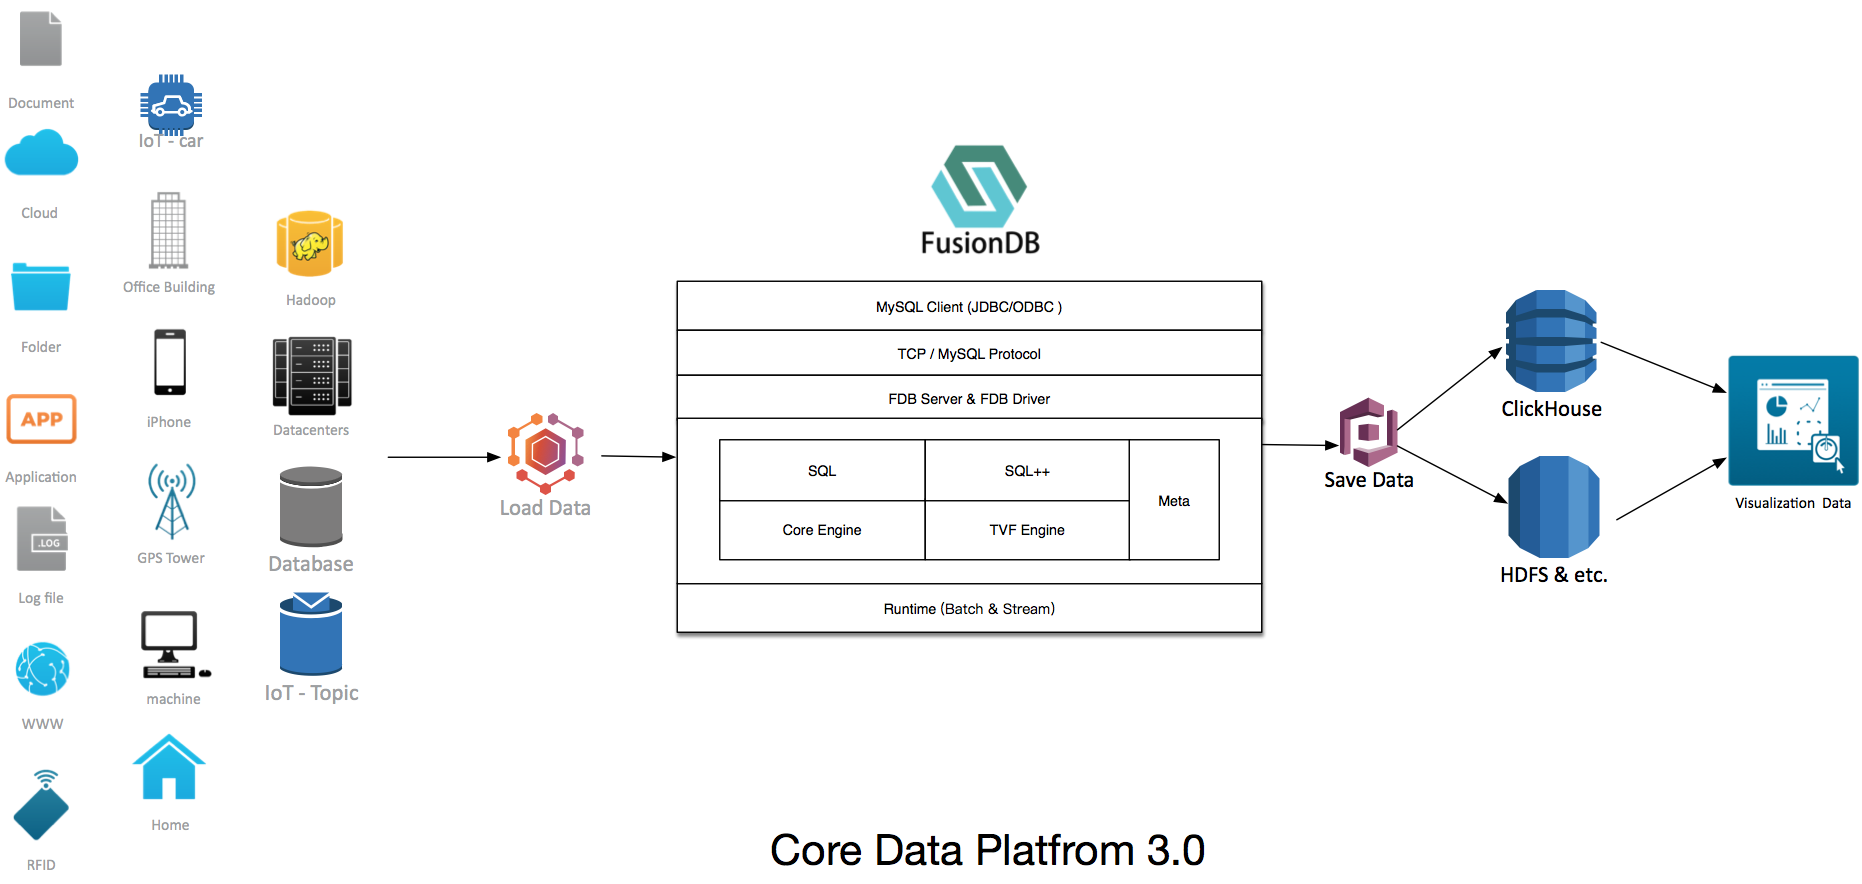
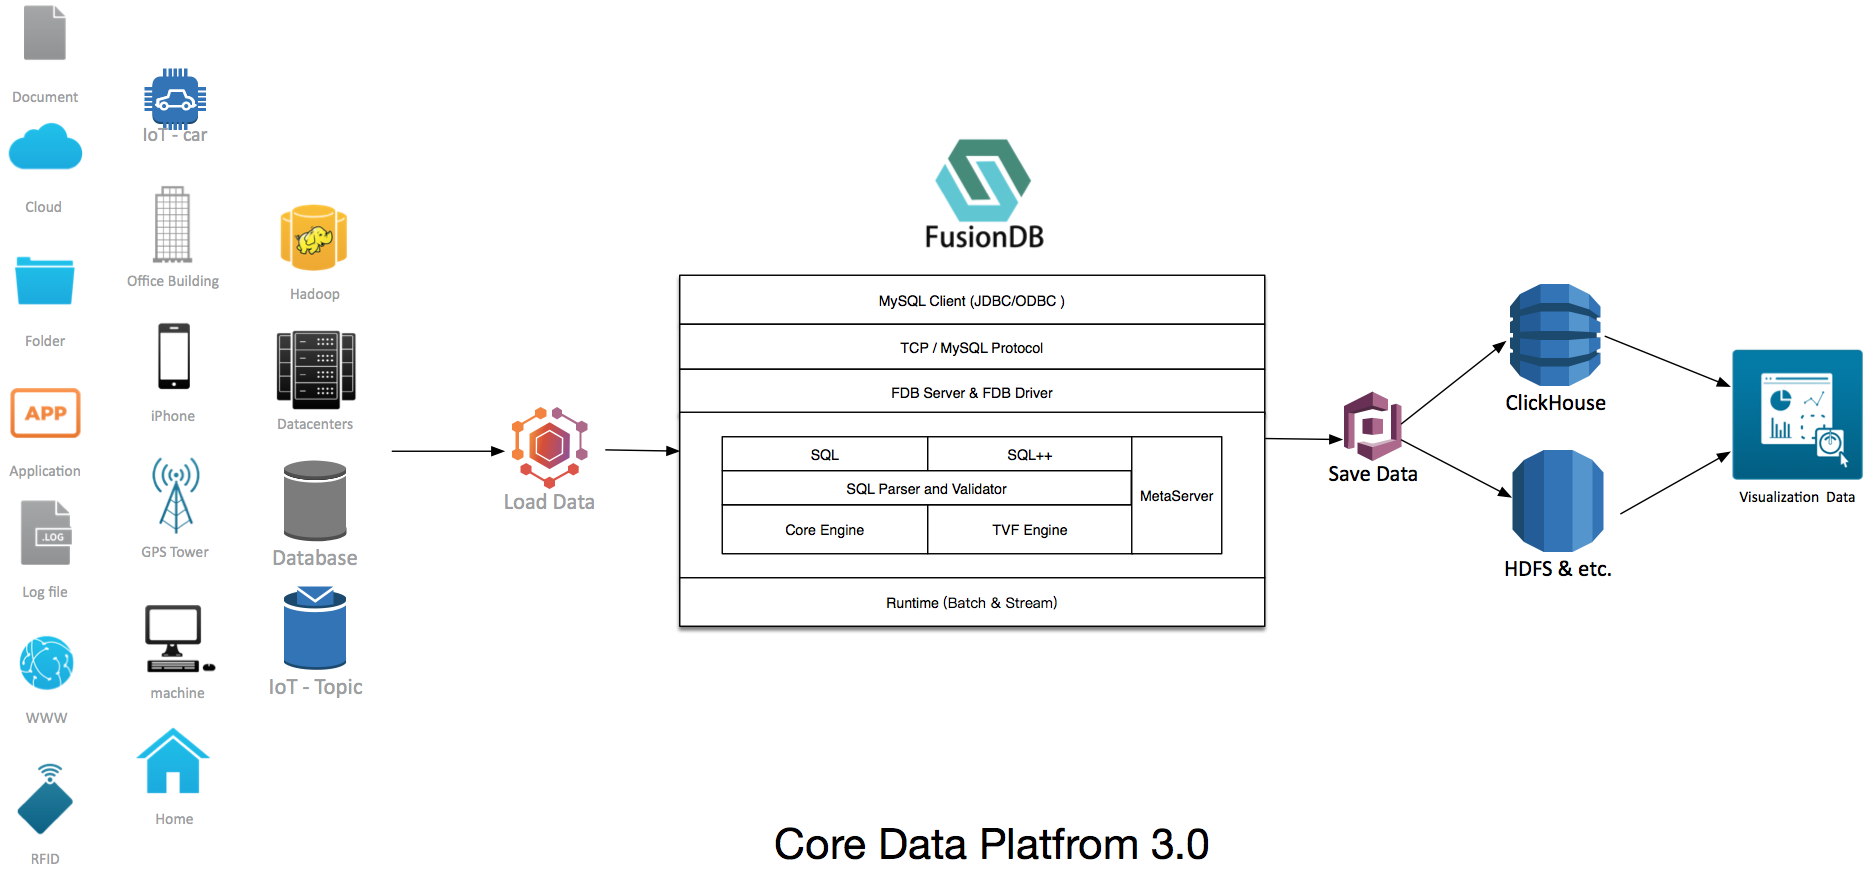
Site updated: 2019-01-23 23:51:06

diff --git a/zh-cn/fdb/index.html b/zh-cn/fdb/index.html
@@ -60,20 +60,42 @@
     <div class="page-main">
   <article class="markdown-body">
     <h1>FusionDB</h1>
-    <h2 id="设计原则"><a class="markdown-anchor" href="#设计原则">#</a> 设计原则</h2>
+    <h2 id="fusiondb-是什么"><a class="markdown-anchor" href="#fusiondb-是什么">#</a> FusionDB 是什么？</h2>
+<p>FusionDB 是一个开源的分布式 FQL 数据库引擎，加速多数据源融合。</p>
+<p><img src="http://www.fusionlab.cn/zh-cn/fdb/img/fusiondb-architecture.png" alt="FusionDB Architecture"></p>
+<h2 id="设计原则"><a class="markdown-anchor" href="#设计原则">#</a> 设计原则</h2>
 <ul>
-<li>利用插件方式，实现系统的分离和扩展</li>
-<li>遵循降低研发成本原则，针对不同业务场景提供解决方案的集成</li>
+<li>简单 &amp; 易用 &amp; FQL for Everyone</li>
+<li>遵循降低研发成本原则，提供极简的使用方法</li>
 <li>深入理解企业数据管理的刚性需求，构建最优化分布式数据库系统</li>
 </ul>
 <h2 id="特性"><a class="markdown-anchor" href="#特性">#</a> 特性</h2>
 <ul>
-<li>业务场景优化：针对一些特定的业务场景提供完善的构架解决方案</li>
-<li>xxxx</li>
+<li>FusionDB Supports Many Runtimes</li>
+<li>All in FQL</li>
+<li>批流统一 &amp; 实时计算</li>
+<li>标准 JDBC/ODBC</li>
 </ul>
+<p><img src="http://www.fusionlab.cn/zh-cn/fdb/img/fusiondb-many-runtime.jpg" alt=""></p>
+<h2 id="运行查询"><a class="markdown-anchor" href="#运行查询">#</a> 运行查询</h2>
+<ul>
+<li>Load Data</li>
+</ul>
+<p><figure class="highlight plain"><table><tr><td class="code"><pre><span class="line"></span><br><span class="line">LOAD &apos;HDFS&apos;.&apos;/usr/test&apos; FORMAT &apos;CSV&apos; OPTIONS(&apos;header&apos;=&apos;true&apos;) AS T WHERE A=1 AND B=2;</span><br><span class="line"></span><br><span class="line">LOAD &apos;ADLS&apos;.&apos;/usr/test&apos; FORMAT &apos;JSON&apos; AS T WHERE A=1 AND B=2;</span><br><span class="line"></span><br><span class="line">LOAD &apos;S3&apos;.&apos;/usr/test&apos; FORMAT &apos;PARQUET&apos; OPTIONS(&apos;fs.s3a.access.key&apos;=&apos;ACCESS-KEY&apos;,&apos;fs.s3a.secret.key&apos;=&apos;SECRET-KEY&apos;,&apos;fs.s3a.endpoint&apos;=&apos;s3.REGION.amazonaws.com&apos;) AS T WHERE A=1 AND B=2;</span><br><span class="line"></span><br><span class="line">LOAD &apos;LOCAL&apos;.&apos;/usr/test&apos; FORMAT &apos;ORC&apos; AS T WHERE A=1 AND B=2;</span><br><span class="line"></span><br><span class="line">LOAD &apos;MYSQL&apos; OPTIONS (&apos;url&apos;=&apos;jdbc:mysql://node1:3306/default&apos;,&apos;dbtable&apos;=&apos;default.t1&apos;,&apos;user&apos;=&apos;admin&apos;, &apos;password&apos;=&apos;123&apos;) AS T1 WHERE A=1 AND B=2;</span><br><span class="line"></span><br><span class="line">LOAD &apos;HBASE&apos; OPTIONS (&apos;hbase.zookeeper.quorum&apos;=&apos;node1:2181,node2:2181,node3:2181&apos;,&apos;hbase.zookeeper.property.clientPort&apos;=&apos;2181&apos;,&apos;htable&apos;=&apos;default.t1&apos;) AS T1 WHERE A=1 AND B=2;</span><br><span class="line"></span><br><span class="line">LOAD &apos;Hive&apos; OPTIONS (&apos;hive.metastore.uris&apos;=&apos;thrift://&lt;host&gt;:&lt;port&gt;&apos;,&apos;hive.metastore.warehouse.dir&apos;=&apos;/usr/hive/warehouse&apos;,&apos;fs.default.name&apos;=&apos;hdfs:///&apos;,&apos;user&apos;=&apos;hive&apos;,&apos;password&apos;=&apos;123&apos;) AS T1 WHERE A=1 AND B=2;</span><br></pre></td></tr></table></figure></p>
+<ul>
+<li>Transformation Data</li>
+</ul>
+<p><figure class="highlight plain"><table><tr><td class="code"><pre><span class="line">Spark SQL/Stream SQL + TVF(SQL++)    </span><br><span class="line"></span><br><span class="line">Create Stream Table t1（</span><br><span class="line">  id int,</span><br><span class="line">  name string</span><br><span class="line">) with (</span><br><span class="line">  &apos;stype&apos; = &apos;kafka&apos;,</span><br><span class="line">  &apos;ktopic&apos; = &apos;user&apos;,</span><br><span class="line">  &apos;auto.offset.reset&apos; = &apos;earliest&apos;,</span><br><span class="line">  &apos;bootstrap.servers&apos; = &apos;localhost:9092&apos;,</span><br><span class="line">  &apos;group.id&apos; = &apos;query-consumer-1&apos;,</span><br><span class="line">  &apos;enable.auto.commit&apos; = &apos;true&apos;,</span><br><span class="line">  &apos;session.timeout.ms&apos; = &apos;30000&apos;,</span><br><span class="line">  ...</span><br><span class="line">)</span><br></pre></td></tr></table></figure></p>
+<ul>
+<li>Save Data</li>
+</ul>
+<p><figure class="highlight plain"><table><tr><td class="code"><pre><span class="line">SAVE T1 TO &apos;LOCAL&apos;.&apos;/usr/a&apos; FORMAT &apos;PARQUET&apos; PARTITION BY COL2;</span><br><span class="line"></span><br><span class="line">SAVE APPEND T1 TO &apos;HDFS&apos;.&apos;/usr/a&apos; FORMAT &apos;ORC&apos; OPTIONS (&apos;hdfs.root&apos;=&apos;hdp02:8020&apos;)  PARTITION BY COL2;</span><br><span class="line"></span><br><span class="line">SAVE OVERWRITE T1 TO &apos;S3&apos;.&apos;/usr/a&apos; FORMAT &apos;CSV&apos; OPTIONS (&apos;aws.bucket.key&apos;=&apos;dkfajsdlfjasdkjf&apos;) PARTITION BY COL2;</span><br><span class="line"></span><br><span class="line">SAVE IGNORE T1 TO &apos;ADLS&apos;.&apos;/usr/a&apos; FORMAT &apos;JSON&apos; OPTIONS (&apos;azure.key&apos;=&apos;dkljafsdkfjlas&apos;) PARTITION BY COL2;</span><br><span class="line"></span><br><span class="line">SAVE T1 TO &apos;MYSQL&apos; OPTIONS (&apos;url&apos;=&apos;jdbc:mysql://node1:3306/default&apos;,&apos;dbtable&apos;=&apos;default.t1&apos;,&apos;user&apos;=&apos;admin&apos;, &apos;password&apos;=&apos;123&apos;);</span><br><span class="line"></span><br><span class="line">SAVE APPEND T1 TO &apos;ORACLE&apos; OPTIONS (&apos;url&apos;=&apos;jdbc:oracle:thin:@node1:1521:orcl&apos;,&apos;dbtable&apos;=&apos;ora1.a1&apos;,&apos;user&apos;=&apos;admin&apos;, &apos;password&apos;=&apos;123&apos;);</span><br><span class="line"></span><br><span class="line">SAVE OVERWRITE T1 TO &apos;SQLServer&apos; OPTIONS (&apos;url&apos;=&apos;jdbc:microsoft:sqlserver://node1:1433&apos;,&apos;dbtable&apos;=&apos;ora1.a1&apos;,&apos;user&apos;=&apos;admin&apos;, &apos;password&apos;=&apos;123&apos;);</span><br></pre></td></tr></table></figure></p>
 <h2 id="什么样的项目适合用fusiondb"><a class="markdown-anchor" href="#什么样的项目适合用fusiondb">#</a> 什么样的项目适合用FusionDB</h2>
 <ul>
-<li>待续...</li>
+<li>跨数据源融合</li>
+<li>海量数据加载</li>
+<li>海量数据分析</li>
+<li>...</li>
 </ul>
 
   </article>
